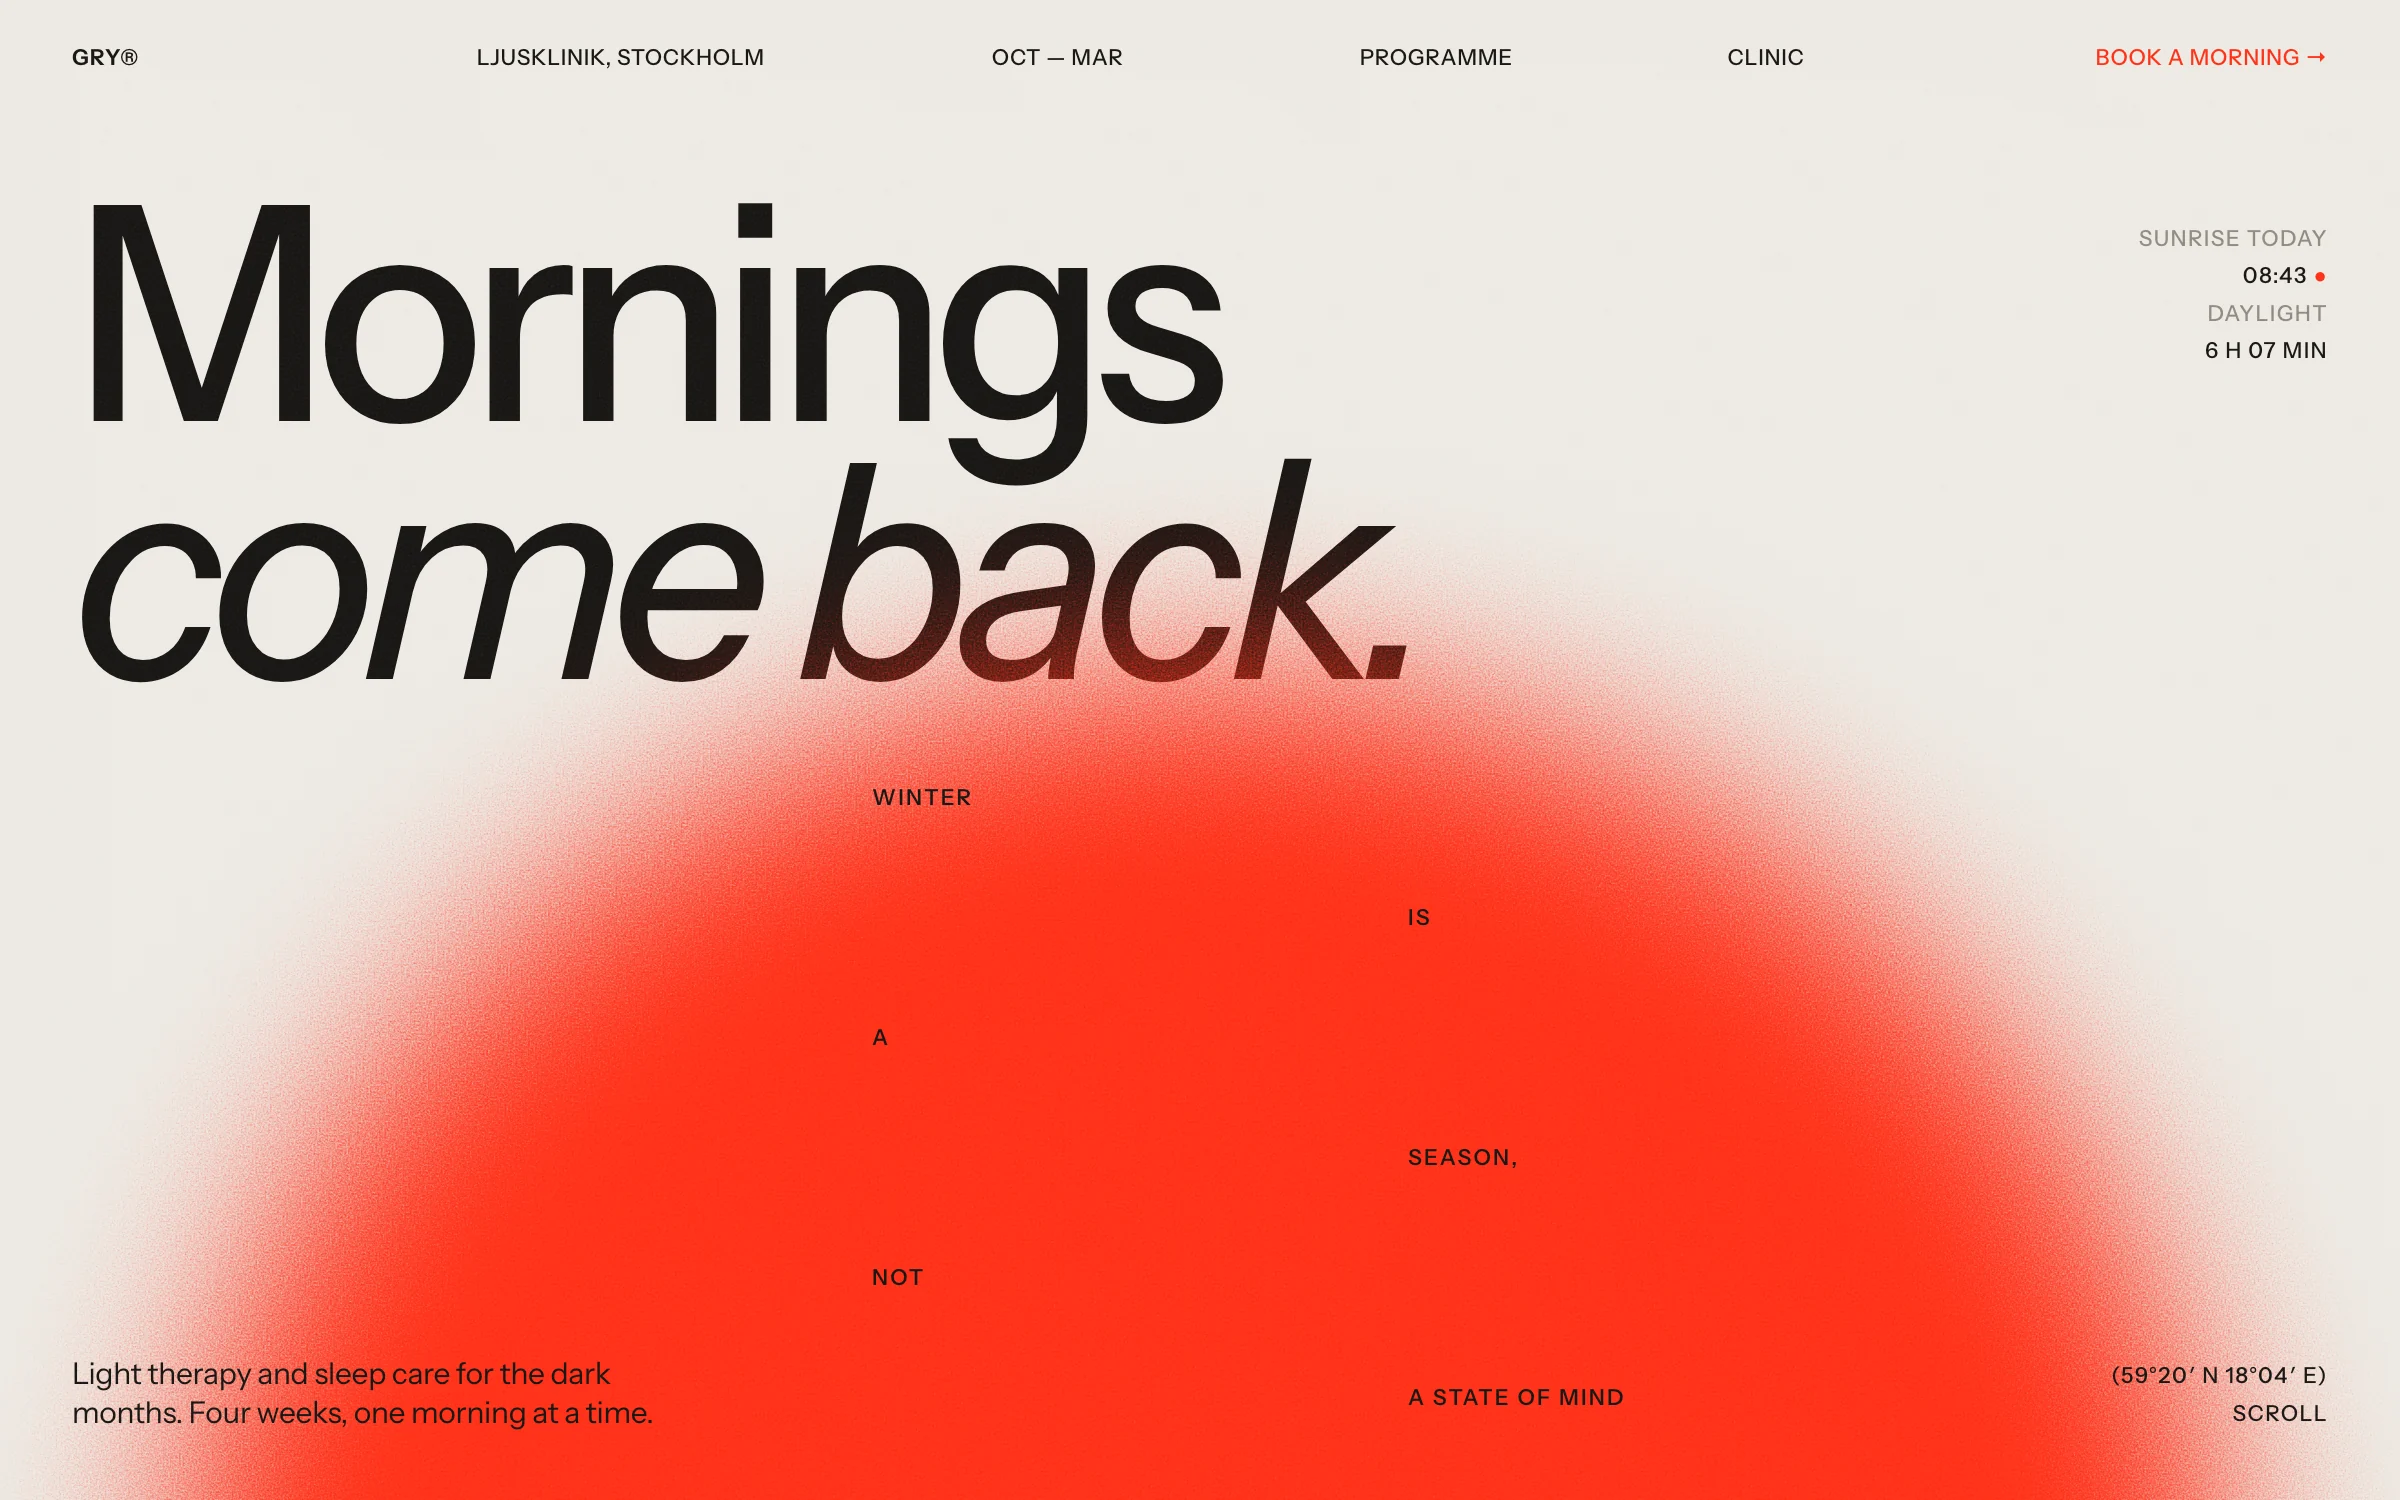
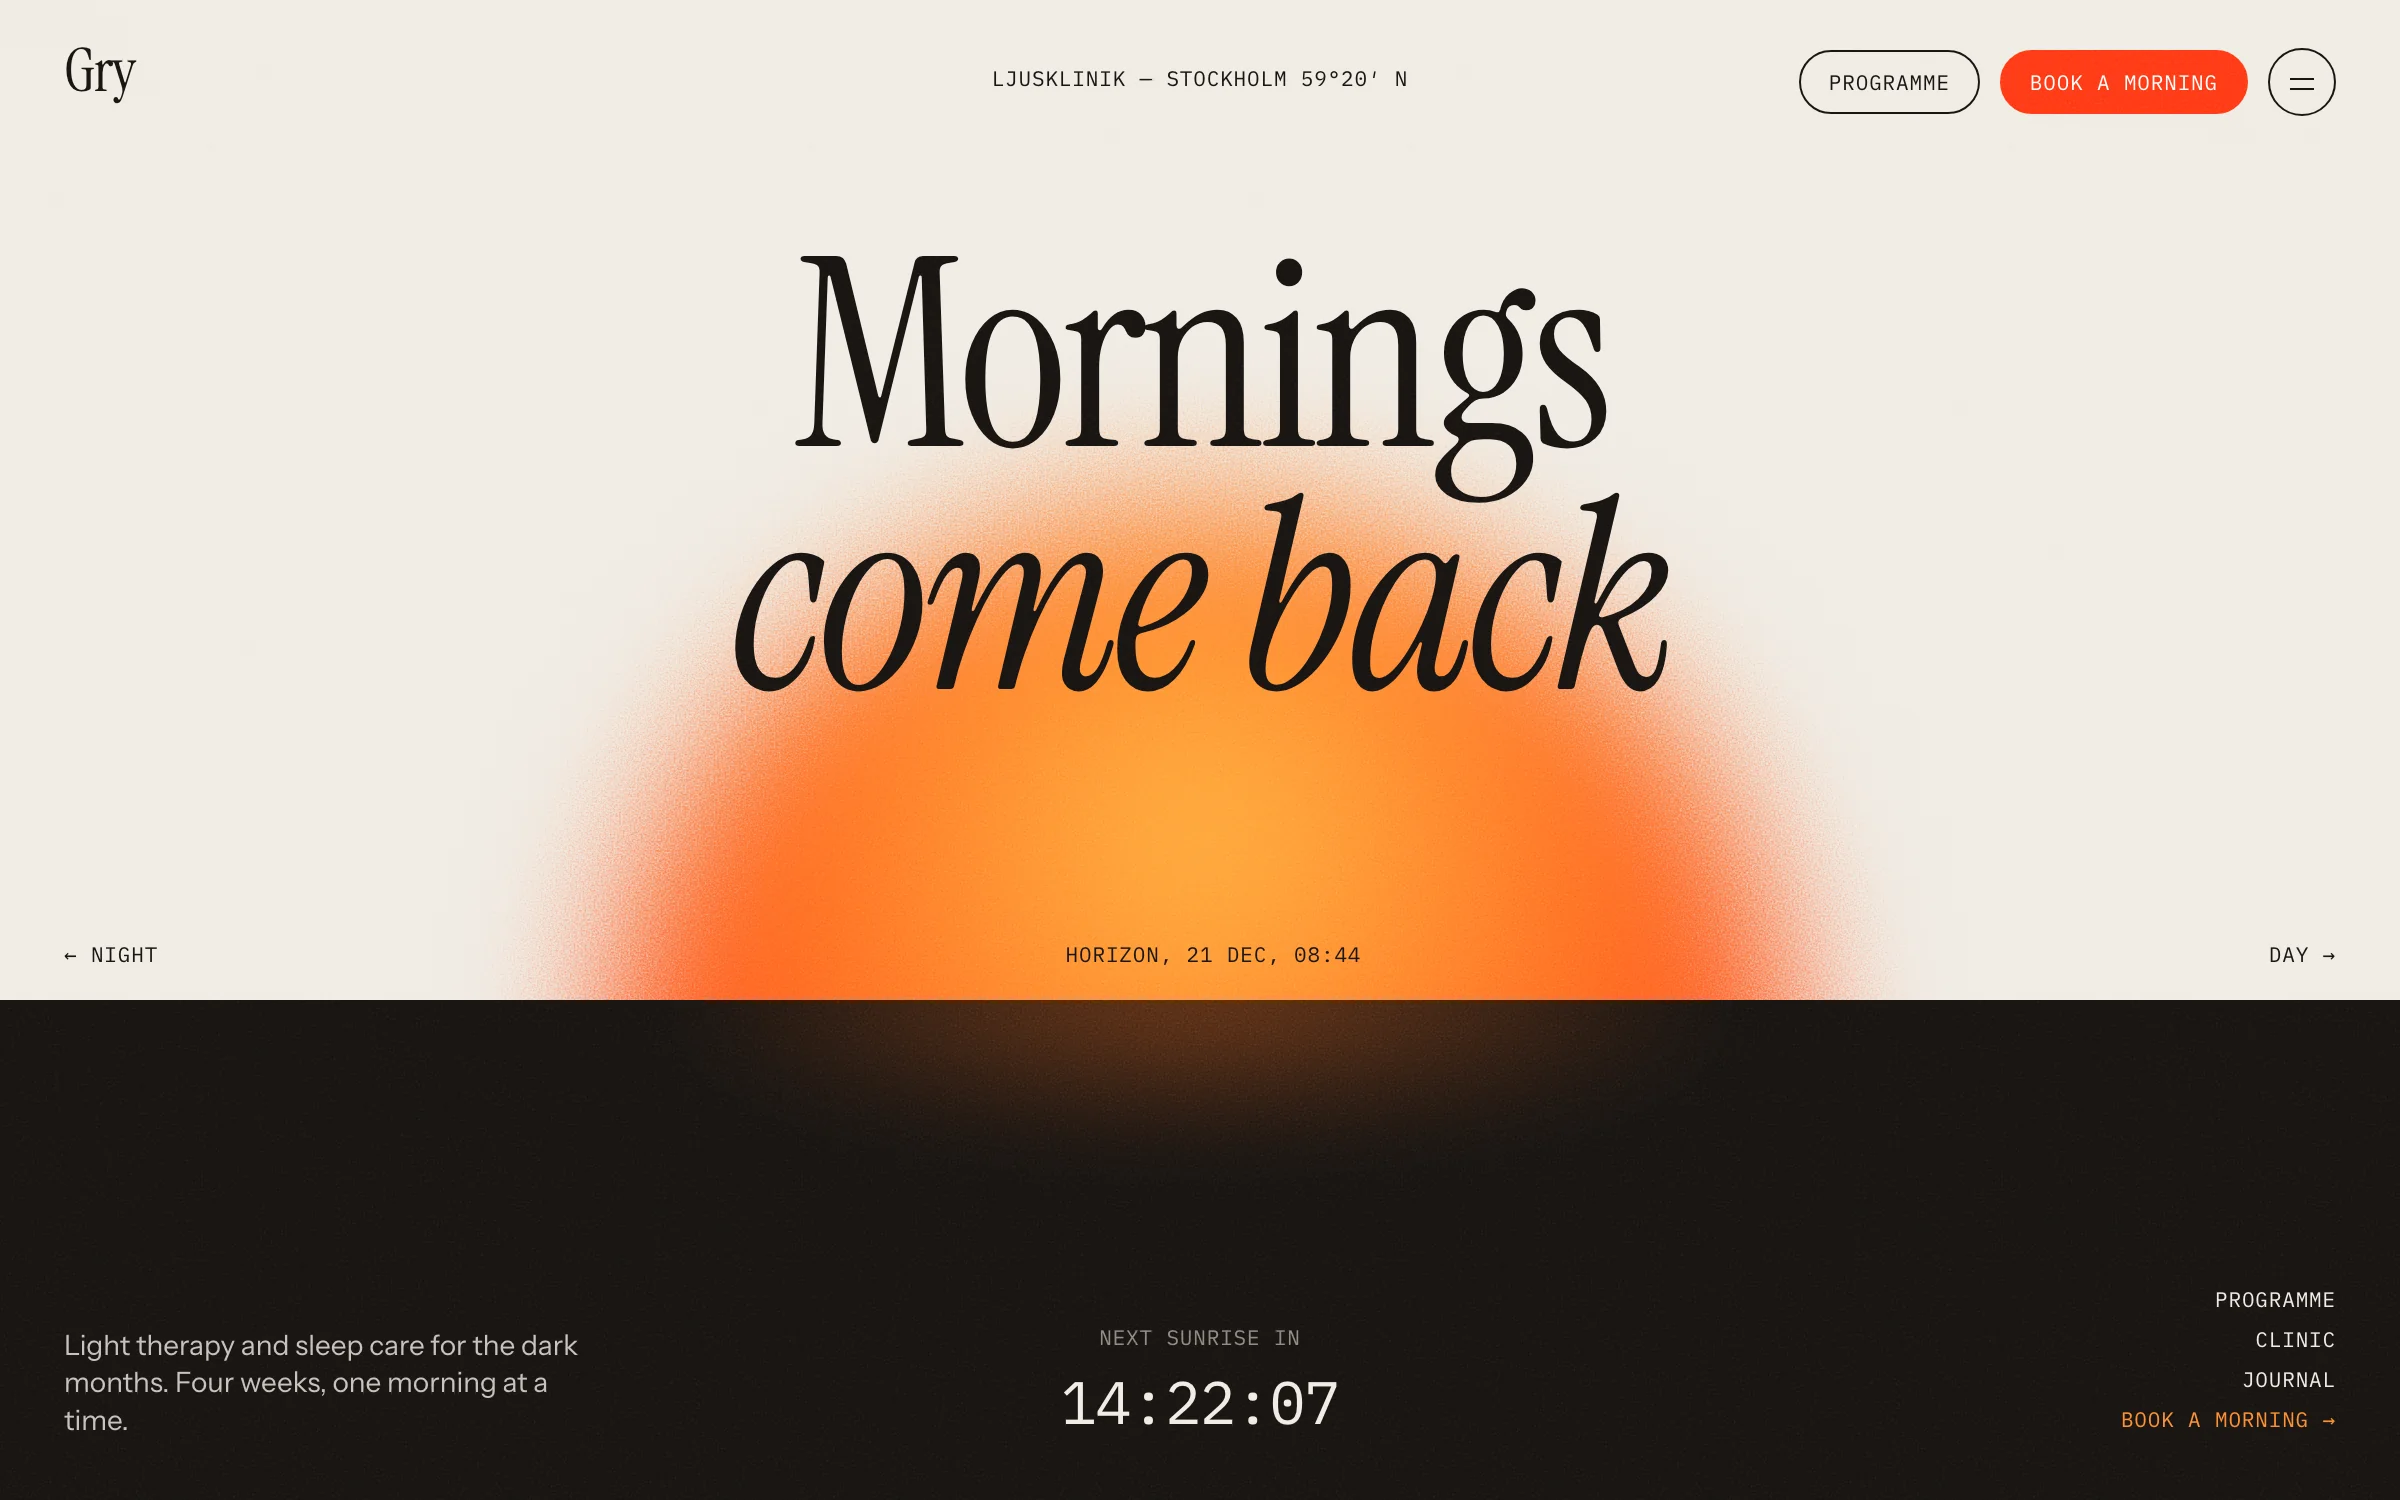
Portfolio v23: Gry v2

diff --git a/work/gry/index.html b/work/gry/index.html
@@ -51,11 +51,11 @@
         </div>
         <div class="case__part">
           <h2 class="case__label">(The <em>idea</em>)</h2>
-          <p>Gry is Swedish for dawn. The whole identity is one red sun that rises slowly: blurred and sprayed at first, sharper every week, until it is a clean half circle. It works like the treatment does. Nothing happens overnight, but each morning is a little clearer than the last.</p>
+          <p>Gry is Swedish for dawn. The whole identity is one orange sun that rises slowly over a dark horizon: blurred and sprayed at first, sharper and higher every week, until it is a clean circle. It works like the treatment does. Nothing happens overnight, but each morning is a little clearer than the last.</p>
         </div>
         <div class="case__part">
           <h2 class="case__label">(The <em>solution</em>)</h2>
-          <p>A calm site in warm paper, one red and one grotesk. The front page is a single sun on the horizon with a few scattered words. The programme page stacks the four weeks as four suns going from haze to sharp. Booking is a calendar of sunrises: every day shows when the sun comes up, and you book a morning, not an appointment. A daylight chart of Stockholm explains the season in one picture. Every sun, grain and chart is drawn in code, and every page was designed for the phone too.</p>
+          <p>Every page is built around a horizon. Warm paper above, night below, and the sun somewhere in between. The type is a soft serif for the big words and a mono for everything that is a time or a number, because the whole service is about the clock. The front page counts down to the next sunrise. The programme is four night windows where the sun climbs and sharpens week by week. Booking is a timeline of the morning: you pick a time before the sun comes up, not an appointment slot. The clinic page shows the sun's path in June and in December, so the season explains itself in one picture. Every sun, grain and diagram is drawn in code, and every page was designed for the phone too.</p>
         </div>
       </div>
 
@@ -65,23 +65,23 @@
     <!-- gallery (luke-baffait: thumbnails scroll past, the one in the middle grows and fills the big frame) -->
     <section class="case__gallery" aria-label="Images">
       <div class="case__thumbs"><div class="case__thumbs-in">
-        <button type="button" aria-label="Front page"><img src="../../assets/img/work/gry/01-home.webp?v=1" alt=""></button>
-        <button type="button" aria-label="Programme"><img src="../../assets/img/work/gry/02-programme.webp?v=1" alt=""></button>
-        <button type="button" aria-label="Booking"><img src="../../assets/img/work/gry/03-booking.webp?v=1" alt=""></button>
-        <button type="button" aria-label="Clinic"><img src="../../assets/img/work/gry/04-clinic.webp?v=1" alt=""></button>
-        <button type="button" aria-label="Phones"><img src="../../assets/img/work/gry/05-phones.webp?v=1" alt=""></button>
+        <button type="button" aria-label="Front page"><img src="../../assets/img/work/gry/01-home.webp?v=2" alt=""></button>
+        <button type="button" aria-label="Programme"><img src="../../assets/img/work/gry/02-programme.webp?v=2" alt=""></button>
+        <button type="button" aria-label="Booking"><img src="../../assets/img/work/gry/03-booking.webp?v=2" alt=""></button>
+        <button type="button" aria-label="Clinic"><img src="../../assets/img/work/gry/04-clinic.webp?v=2" alt=""></button>
+        <button type="button" aria-label="Phones"><img src="../../assets/img/work/gry/05-phones.webp?v=2" alt=""></button>
       </div></div>
       <figure class="case__sel">
-        <img src="../../assets/img/work/gry/01-home.webp?v=1" alt="Gry front page: Mornings come back, over a blurred red sun rising">
-        <img src="../../assets/img/work/gry/01-home.webp?v=1" alt="" aria-hidden="true">
+        <img src="../../assets/img/work/gry/01-home.webp?v=2" alt="Gry front page: Mornings come back, over an orange sun rising from a dark horizon">
+        <img src="../../assets/img/work/gry/01-home.webp?v=2" alt="" aria-hidden="true">
       </figure>
       <!-- phones: the images one after another -->
       <div class="case__stack">
-        <img src="../../assets/img/work/gry/01-home.webp?v=1" alt="Front page" loading="lazy">
-        <img src="../../assets/img/work/gry/02-programme.webp?v=1" alt="Programme: four weeks as four suns" loading="lazy">
-        <img src="../../assets/img/work/gry/03-booking.webp?v=1" alt="Booking: a calendar of sunrises" loading="lazy">
-        <img src="../../assets/img/work/gry/04-clinic.webp?v=1" alt="Clinic: daylight in Stockholm over a year" loading="lazy">
-        <img src="../../assets/img/work/gry/05-phones.webp?v=1" alt="The site on phones" loading="lazy">
+        <img src="../../assets/img/work/gry/01-home.webp?v=2" alt="Front page" loading="lazy">
+        <img src="../../assets/img/work/gry/02-programme.webp?v=2" alt="Programme: four night windows where the sun rises and sharpens" loading="lazy">
+        <img src="../../assets/img/work/gry/03-booking.webp?v=2" alt="Booking: a timeline of the morning up to sunrise" loading="lazy">
+        <img src="../../assets/img/work/gry/04-clinic.webp?v=2" alt="Clinic: the sun path over Stockholm in June and December" loading="lazy">
+        <img src="../../assets/img/work/gry/05-phones.webp?v=2" alt="The site on phones" loading="lazy">
       </div>
     </section>
   </main>

diff --git a/index.html b/index.html
@@ -106,7 +106,7 @@
         <div class="wl__list">
           <a class="wl__item" href="work/folierakoket/" data-img="assets/img/work/folierakoket/01-hero.webp" data-date="11 2026">Foliera Köket</a>
           <a class="wl__item" href="work/norrsten/" data-img="assets/img/work/norrsten/01-home.webp?v=3" data-date="11 2026">Norrsten</a>
-          <a class="wl__item" href="work/gry/" data-img="assets/img/work/gry/01-home.webp?v=1" data-date="11 2026">Gry</a>
+          <a class="wl__item" href="work/gry/" data-img="assets/img/work/gry/01-home.webp?v=2" data-date="11 2026">Gry</a>
         </div>
         <div class="wl__preview" aria-hidden="true">
           <a class="wl__card" href="work/folierakoket/" tabindex="-1">
